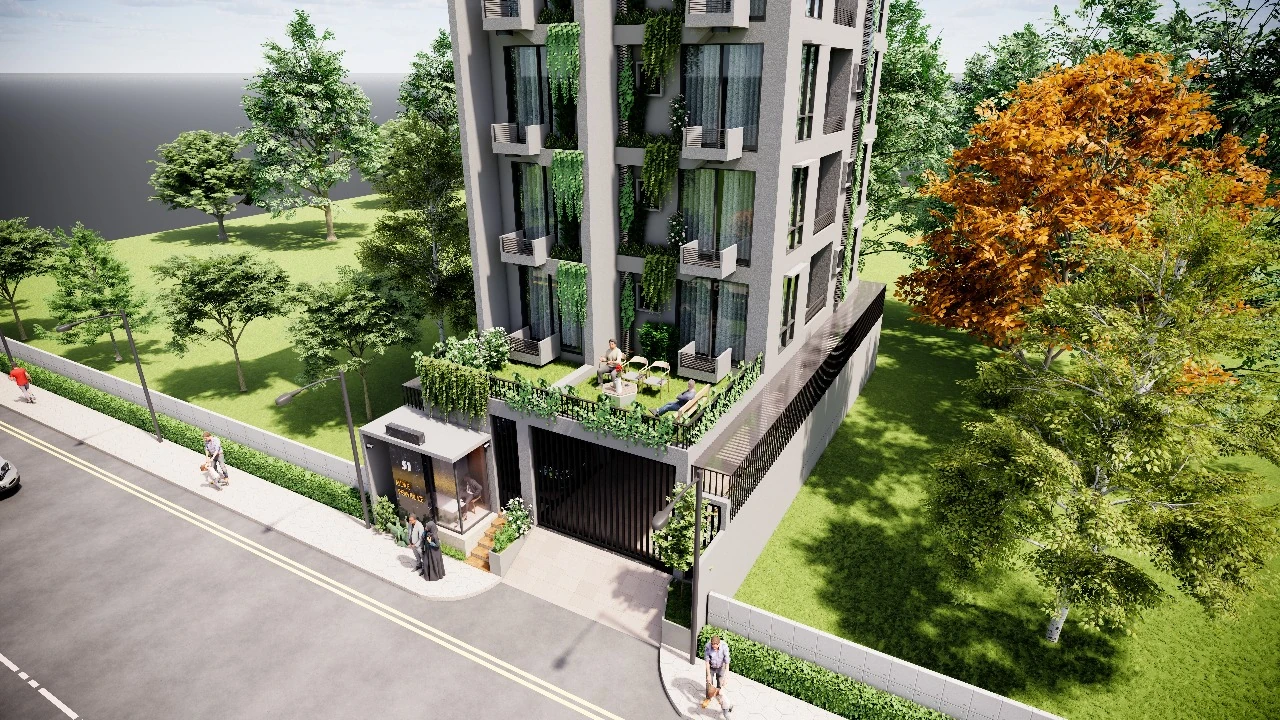
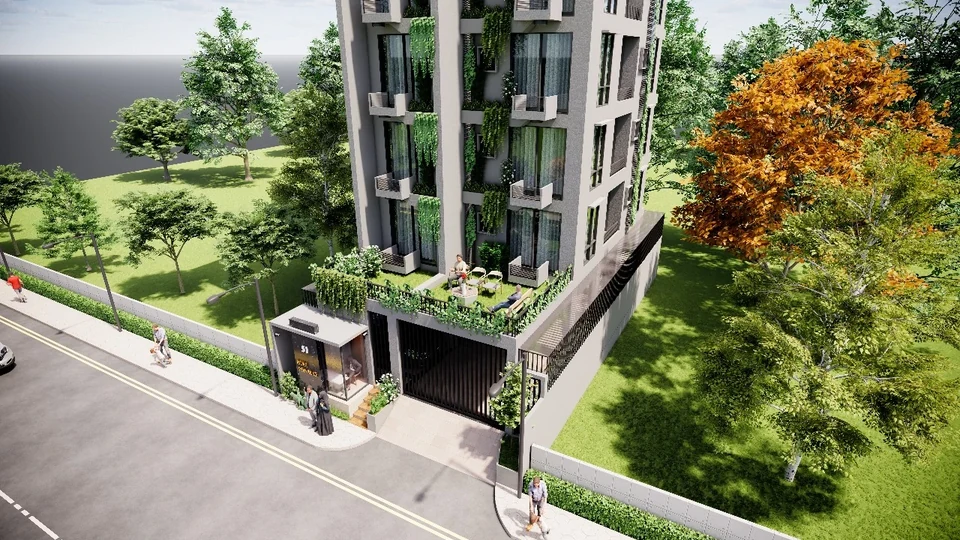
fix mobile performance isseu

diff --git a/src/app/_components/hero.tsx b/src/app/_components/hero.tsx
@@ -5,8 +5,6 @@ import Link from "next/link";
 import { useRef } from "react";
 import { motion, useScroll, useTransform } from "motion/react";
 
-const HERO_STAGGER_EASE = [0.32, 0.72, 0, 1] as const;
-
 export function Hero() {
   const sectionRef = useRef<HTMLElement>(null);
   const { scrollYProgress } = useScroll({
@@ -33,7 +31,7 @@ export function Hero() {
           alt="Avenue Constructions Premier Single-Unit Architecture in Dhaka"
           fill
           priority
-          quality={85}
+          quality={70}
           sizes="100vw"
           className="object-cover object-center brightness-100 contrast-[1.02]"
         />
@@ -51,41 +49,21 @@ export function Hero() {
         <div className="grid grid-cols-1 lg:grid-cols-12 gap-8 lg:gap-12 items-end">
           {/* Left Column: Bold Headline */}
           <div className="lg:col-span-7 flex flex-col gap-3">
-            <motion.span
-              initial={{ opacity: 0, y: 20 }}
-              animate={{ opacity: 1, y: 0 }}
-              transition={{ duration: 0.7, delay: 0.2, ease: HERO_STAGGER_EASE }}
-              className="font-mono text-xs uppercase tracking-[0.25em] text-champagne font-semibold drop-shadow-sm"
-            >
+            <span className="font-mono text-xs uppercase tracking-[0.25em] text-champagne font-semibold drop-shadow-sm">
               Dhaka Luxury Real Estate &middot; Single-Unit Residences
-            </motion.span>
-            <motion.h1
-              initial={{ opacity: 0, y: 35 }}
-              animate={{ opacity: 1, y: 0 }}
-              transition={{ duration: 0.9, delay: 0.35, ease: HERO_STAGGER_EASE }}
-              className="font-serif text-[clamp(2.8rem,6vw,5.2rem)] leading-[0.98] tracking-[-0.02em] text-paper-white font-medium drop-shadow-md"
-            >
+            </span>
+            <h1 className="font-serif text-[clamp(2.8rem,6vw,5.2rem)] leading-[0.98] tracking-[-0.02em] text-paper-white font-medium drop-shadow-md">
               Setting Standards in Luxury Living.
-            </motion.h1>
+            </h1>
           </div>
 
           {/* Right Column: Summary + CTAs */}
           <div className="lg:col-span-5 flex flex-col gap-5 lg:pl-4">
-            <motion.p
-              initial={{ opacity: 0, y: 25 }}
-              animate={{ opacity: 1, y: 0 }}
-              transition={{ duration: 0.8, delay: 0.5, ease: HERO_STAGGER_EASE }}
-              className="text-[15px] sm:text-[16px] leading-[1.65] text-paper-white/95 font-normal drop-shadow-sm"
-            >
+            <p className="text-[15px] sm:text-[16px] leading-[1.65] text-paper-white/95 font-normal drop-shadow-sm">
               Avenue Constructions Ltd engineers single-unit luxury residential landmarks in Bashundhara R/A, Gulshan, and Aftabnagar &mdash; delivering 100% RAJUK-sanctioned architectural privacy.
-            </motion.p>
+            </p>
 
-            <motion.div
-              initial={{ opacity: 0, y: 20 }}
-              animate={{ opacity: 1, y: 0 }}
-              transition={{ duration: 0.8, delay: 0.65, ease: HERO_STAGGER_EASE }}
-              className="flex flex-wrap items-center gap-3 pt-1"
-            >
+            <div className="flex flex-wrap items-center gap-3 pt-1">
               <Link
                 href="/contact"
                 className="group pill-btn inline-flex items-center gap-3 pl-6 pr-2.5 py-3 text-xs uppercase font-mono tracking-wider bg-paper-white text-graphite-ink hover:bg-linen-cream transition-all shadow-xl active:scale-[0.98]"
@@ -101,7 +79,7 @@ export function Hero() {
               >
                 Explore Residences
               </Link>
-            </motion.div>
+            </div>
           </div>
         </div>
 

diff --git a/src/app/_components/about.tsx b/src/app/_components/about.tsx
@@ -219,7 +219,7 @@ export function About() {
                     src={pillar.image}
                     alt={pillar.label}
                     fill
-                    sizes="(max-width: 768px) 100vw, (max-width: 1200px) 50vw, 384px"
+                    sizes="(max-width: 640px) 360px, (max-width: 1200px) 50vw, 384px"
                     className="object-cover transition-transform duration-700 ease-premium-in-out group-hover:scale-105"
                   />
                 </div>

diff --git a/next.config.ts b/next.config.ts
@@ -3,7 +3,7 @@ import type { NextConfig } from "next";
 const nextConfig: NextConfig = {
   images: {
     formats: ["image/avif", "image/webp"],
-    deviceSizes: [640, 750, 828, 1080, 1200, 1920],
+    deviceSizes: [360, 480, 640, 750, 828, 1080, 1200, 1920],
     imageSizes: [16, 32, 48, 64, 96, 128, 256, 384],
     remotePatterns: [
       {
